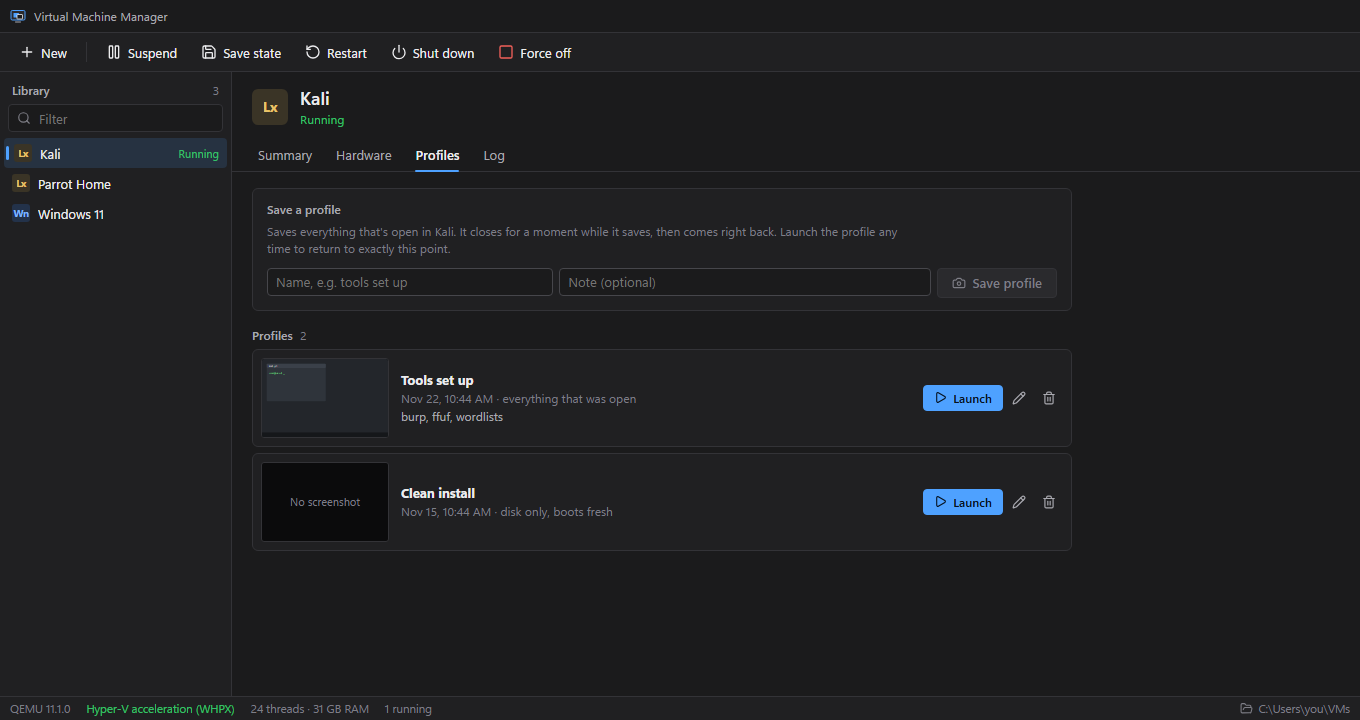
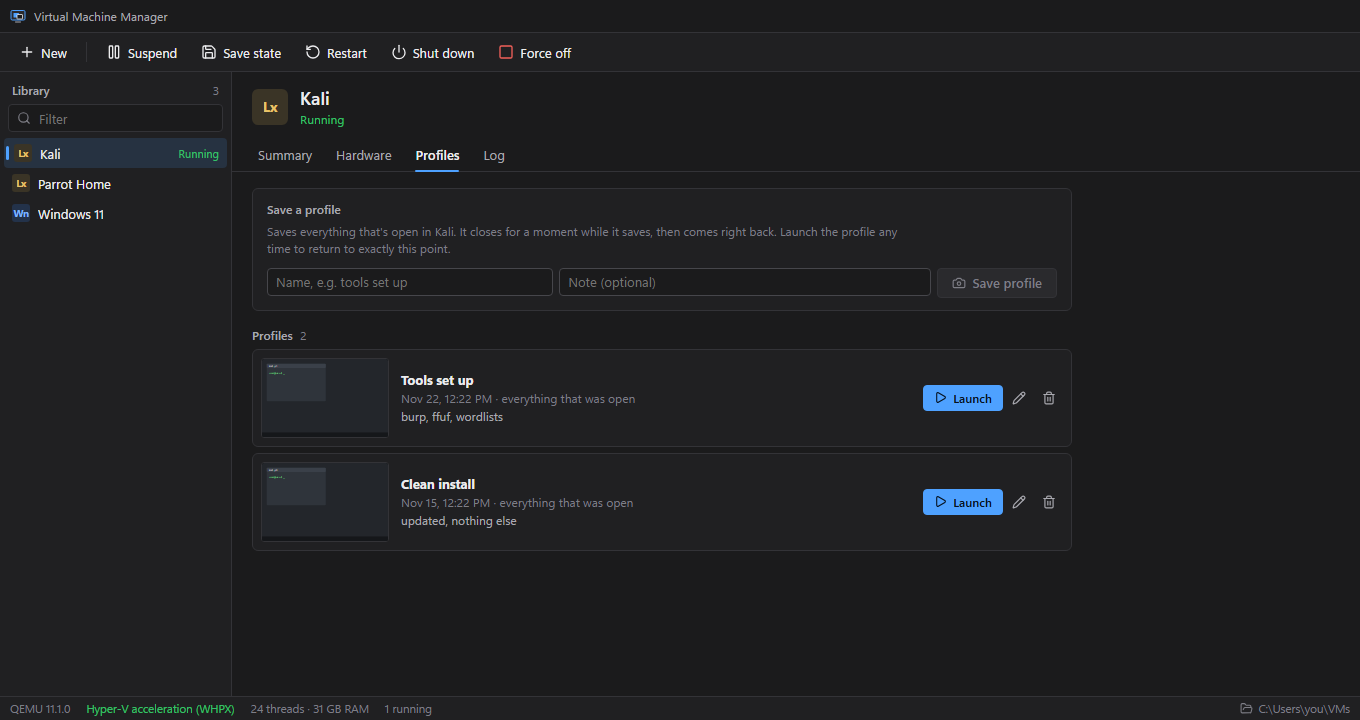
Support, security and conduct docs, demo GIF, roadmap (#44)
* Support, security and conduct docs; demo GIF; roadmap and help sections

Discussions and private vulnerability reporting are turned on for the
repo. The README said profiles can be taken while a VM is off; on main
takeNow() refuses that until #17, so it now says so.

* Mock: seed only profiles main can take; re-record demo and Profiles screenshot

The browser mock had a disk-only profile, which main can't make until #17,
so the README's first image contradicted its own text.

Changed region(s): [[0.1853, 0.6417, 0.4632, 0.7639], [0.3397, 0.55, 0.4632, 0.5806]]

diff --git a/src/renderer/src/mockApi.ts b/src/renderer/src/mockApi.ts
@@ -28,7 +28,7 @@ export function installMockApi(): void {
   const profiles: Record<string, Profile[]> = {
     Kali: [
       { tag: 'p1', label: 'Tools set up', note: 'burp, ffuf, wordlists', created: Date.now() - 2 * day, kind: 'session', hasShot: true },
-      { tag: 'p0', label: 'Clean install', note: '', created: Date.now() - 9 * day, kind: 'disk', hasShot: false }
+      { tag: 'p0', label: 'Clean install', note: 'updated, nothing else', created: Date.now() - 9 * day, kind: 'session', hasShot: true }
     ]
   }
   const running = (name: string) => (states[name]?.status ?? 'off') !== 'off'

diff --git a/CODE_OF_CONDUCT.md b/CODE_OF_CONDUCT.md
@@ -1,0 +1,85 @@
+
+# Contributor Covenant Code of Conduct
+
+## Our Pledge
+
+We as members, contributors, and leaders pledge to make participation in our community a harassment-free experience for everyone, regardless of age, body size, visible or invisible disability, ethnicity, sex characteristics, gender identity and expression, level of experience, education, socio-economic status, nationality, personal appearance, race, caste, color, religion, or sexual identity and orientation.
+
+We pledge to act and interact in ways that contribute to an open, welcoming, diverse, inclusive, and healthy community.
+
+## Our Standards
+
+Examples of behavior that contributes to a positive environment for our community include:
+
+* Demonstrating empathy and kindness toward other people
+* Being respectful of differing opinions, viewpoints, and experiences
+* Giving and gracefully accepting constructive feedback
+* Accepting responsibility and apologizing to those affected by our mistakes, and learning from the experience
+* Focusing on what is best not just for us as individuals, but for the overall community
+
+Examples of unacceptable behavior include:
+
+* The use of sexualized language or imagery, and sexual attention or advances of any kind
+* Trolling, insulting or derogatory comments, and personal or political attacks
+* Public or private harassment
+* Publishing others' private information, such as a physical or email address, without their explicit permission
+* Other conduct which could reasonably be considered inappropriate in a professional setting
+
+## Enforcement Responsibilities
+
+Community leaders are responsible for clarifying and enforcing our standards of acceptable behavior and will take appropriate and fair corrective action in response to any behavior that they deem inappropriate, threatening, offensive, or harmful.
+
+Community leaders have the right and responsibility to remove, edit, or reject comments, commits, code, wiki edits, issues, and other contributions that are not aligned to this Code of Conduct, and will communicate reasons for moderation decisions when appropriate.
+
+## Scope
+
+This Code of Conduct applies within all community spaces, and also applies when an individual is officially representing the community in public spaces. Examples of representing our community include using an official e-mail address, posting via an official social media account, or acting as an appointed representative at an online or offline event.
+
+## Enforcement
+
+Instances of abusive, harassing, or otherwise unacceptable behavior may be reported to the community leaders responsible for enforcement at a private report through this repository's Security tab ("Report a vulnerability"), which only the maintainer can see. All complaints will be reviewed and investigated promptly and fairly.
+
+All community leaders are obligated to respect the privacy and security of the reporter of any incident.
+
+## Enforcement Guidelines
+
+Community leaders will follow these Community Impact Guidelines in determining the consequences for any action they deem in violation of this Code of Conduct:
+
+### 1. Correction
+
+**Community Impact**: Use of inappropriate language or other behavior deemed unprofessional or unwelcome in the community.
+
+**Consequence**: A private, written warning from community leaders, providing clarity around the nature of the violation and an explanation of why the behavior was inappropriate. A public apology may be requested.
+
+### 2. Warning
+
+**Community Impact**: A violation through a single incident or series of actions.
+
+**Consequence**: A warning with consequences for continued behavior. No interaction with the people involved, including unsolicited interaction with those enforcing the Code of Conduct, for a specified period of time. This includes avoiding interactions in community spaces as well as external channels like social media. Violating these terms may lead to a temporary or permanent ban.
+
+### 3. Temporary Ban
+
+**Community Impact**: A serious violation of community standards, including sustained inappropriate behavior.
+
+**Consequence**: A temporary ban from any sort of interaction or public communication with the community for a specified period of time. No public or private interaction with the people involved, including unsolicited interaction with those enforcing the Code of Conduct, is allowed during this period. Violating these terms may lead to a permanent ban.
+
+### 4. Permanent Ban
+
+**Community Impact**: Demonstrating a pattern of violation of community standards, including sustained inappropriate behavior, harassment of an individual, or aggression toward or disparagement of classes of individuals.
+
+**Consequence**: A permanent ban from any sort of public interaction within the community.
+
+## Attribution
+
+This Code of Conduct is adapted from the [Contributor Covenant][homepage], version 2.1, available at [https://www.contributor-covenant.org/version/2/1/code_of_conduct.html][v2.1].
+
+Community Impact Guidelines were inspired by [Mozilla's code of conduct enforcement ladder][Mozilla CoC].
+
+For answers to common questions about this code of conduct, see the FAQ at [https://www.contributor-covenant.org/faq][FAQ]. Translations are available at [https://www.contributor-covenant.org/translations][translations].
+
+[homepage]: https://www.contributor-covenant.org
+[v2.1]: https://www.contributor-covenant.org/version/2/1/code_of_conduct.html
+[Mozilla CoC]: https://github.com/mozilla/diversity
+[FAQ]: https://www.contributor-covenant.org/faq
+[translations]: https://www.contributor-covenant.org/translations
+

diff --git a/README.md b/README.md
@@ -9,9 +9,9 @@ A free desktop app for running virtual machines on Windows. It uses [QEMU](https
 [![Windows 10/11](https://img.shields.io/badge/platform-Windows%2010%20%7C%2011-0078D4)](#requirements)
 [![Stars](https://img.shields.io/github/stars/A21-devs/Virtual-Machine-Manager?style=flat)](https://github.com/A21-devs/Virtual-Machine-Manager/stargazers)
 
-![A running Kali VM in Virtual Machine Manager](docs/screenshots/summary.png)
+![Powering on a Kali VM, checking its hardware, saving a profile and launching an older one](docs/screenshots/demo.gif)
 
-**[Download the installer](https://github.com/A21-devs/Virtual-Machine-Manager/releases/latest)** · [Wiki](https://github.com/A21-devs/Virtual-Machine-Manager/wiki) · [Report a bug](https://github.com/A21-devs/Virtual-Machine-Manager/issues/new)
+**[Download the installer](https://github.com/A21-devs/Virtual-Machine-Manager/releases/latest)** · [Wiki](https://github.com/A21-devs/Virtual-Machine-Manager/wiki) · [Roadmap](https://github.com/A21-devs/Virtual-Machine-Manager/wiki/Roadmap) · [Discussions](https://github.com/A21-devs/Virtual-Machine-Manager/discussions)
 
 ## Why
 
@@ -28,7 +28,7 @@ I wanted something that feels like VMware Workstation but is free and fully mine
 **Save your place**
 - **Save state:** close a VM and pick up where you left off next time you power it on
 - **Profiles:** save named points in time for a VM ("tools set up", "clean install") with a screenshot and a note, then **Launch** any of them later to go straight back to that moment
-- Profiles taken while a Linux VM is running keep everything that was open. Profiles taken while it's off keep the disk and boot fresh, for any guest.
+- A profile keeps everything that was open in the guest. It's taken while the VM runs, and works for Debian/Ubuntu-based Linux guests today
 
 **Set them up**
 - Hardware tab: name, guest OS, CPU cores and RAM (sliders that know your PC's limits), disk size and controller, CD/DVD image and whether it boots first, network mode and adapter, graphics, BIOS or UEFI, acceleration and extra QEMU arguments
@@ -38,6 +38,8 @@ I wanted something that feels like VMware Workstation but is free and fully mine
 
 | | |
 |---|---|
+| ![Summary tab of a running VM](docs/screenshots/summary.png) | ![Log tab](docs/screenshots/log.png) |
+| **Summary:** what the VM is running with, at a glance. | **Log:** QEMU's own output, for when a guest won't boot. |
 | ![Hardware tab](docs/screenshots/hardware.png) | ![Profiles tab with two saved profiles](docs/screenshots/profiles.png) |
 | **Hardware:** every setting in one place, with hints for the ones that are easy to get wrong. | **Profiles:** save a moment, launch it again later. |
 
@@ -86,7 +88,7 @@ Uninstalling the app never touches this folder.
 
 **Why does saving a profile close the VM for a moment?** With WHPX, QEMU can't snapshot a running guest's memory, so the guest hibernates itself, the disk is snapshotted, and the VM starts again. Launching the profile resumes from that hibernation.
 
-**Which guests can keep open apps in a profile?** Linux guests based on Debian or Ubuntu (Kali, Ubuntu, Mint, Parrot) after a one-time setup command that the app shows you the first time. Windows guests aren't supported for this yet. Profiles of a powered-off VM work with any guest.
+**Which guests can keep open apps in a profile?** Linux guests based on Debian or Ubuntu (Kali, Ubuntu, Mint, Parrot) after a one-time setup command that the app shows you the first time. Windows guests aren't supported yet ([#42](https://github.com/A21-devs/Virtual-Machine-Manager/issues/42)), and neither are profiles of a powered-off VM ([#17](https://github.com/A21-devs/Virtual-Machine-Manager/issues/17)).
 
 **Can I use my existing VMs?** Any qcow2 disk works: put it in `VMs\disks` and point a new VM at it. VMs from the old PowerShell version show up on their own.
 
@@ -122,9 +124,22 @@ tests/        Vitest unit tests, plus integration tests that boot QEMU
 legacy/       the original PowerShell version
 ```
 
+## Roadmap
+
+What's shipped, what's next and what's only an idea is on the [Roadmap](https://github.com/A21-devs/Virtual-Machine-Manager/wiki/Roadmap) wiki page. Next up is mostly in the [open issues](https://github.com/A21-devs/Virtual-Machine-Manager/issues). Ideas go in [Discussions](https://github.com/A21-devs/Virtual-Machine-Manager/discussions/categories/ideas).
+
+## Getting help
+
+- How-to guides: the [wiki](https://github.com/A21-devs/Virtual-Machine-Manager/wiki)
+- Questions: [Discussions](https://github.com/A21-devs/Virtual-Machine-Manager/discussions)
+- Bugs: [open an issue](https://github.com/A21-devs/Virtual-Machine-Manager/issues/new/choose) with the VM's Log tab
+- Security problems: privately, see [SECURITY.md](SECURITY.md)
+
+It's one maintainer, so expect a reply within a few days. More in [SUPPORT.md](SUPPORT.md).
+
 ## Contributing
 
-Bug reports and PRs are welcome. Issues labelled [good first issue](https://github.com/A21-devs/Virtual-Machine-Manager/labels/good%20first%20issue) are small and self-contained. See [CONTRIBUTING.md](CONTRIBUTING.md) for how to set up and what a PR needs.
+Bug reports and PRs are welcome. Issues labelled [good first issue](https://github.com/A21-devs/Virtual-Machine-Manager/labels/good%20first%20issue) are small and self-contained. See [CONTRIBUTING.md](CONTRIBUTING.md) for how to set up and what a PR needs. Everyone taking part follows the [code of conduct](CODE_OF_CONDUCT.md).
 
 ## Credits
 

diff --git a/SUPPORT.md b/SUPPORT.md
@@ -1,0 +1,15 @@
+# Getting help
+
+| You want to... | Go to |
+|---|---|
+| Learn how to do something | The [wiki](https://github.com/A21-devs/Virtual-Machine-Manager/wiki): installing, your first VM, hardware settings, profiles, troubleshooting |
+| Ask a question or share an idea | [Discussions](https://github.com/A21-devs/Virtual-Machine-Manager/discussions) |
+| Report a bug | [New issue](https://github.com/A21-devs/Virtual-Machine-Manager/issues/new/choose) using the bug form. Paste the VM's Log tab, it usually has the answer |
+| Report a security problem | Privately, see [SECURITY.md](SECURITY.md). Not in a public issue |
+| See what's planned | The [roadmap](https://github.com/A21-devs/Virtual-Machine-Manager/wiki/Roadmap) |
+
+## What to expect
+
+This is maintained by one person in their spare time. I read every issue and discussion, usually within a few days. If I need more detail I'll ask in the thread. When something is fixed, the issue gets closed with the PR that fixed it and the release it ships in. If a request doesn't fit the project I'll say why instead of leaving it open.
+
+Answers that will help other people end up in the wiki or the FAQ, so they don't get lost in a thread.

diff --git a/SECURITY.md b/SECURITY.md
@@ -1,0 +1,20 @@
+# Security
+
+## Reporting a problem
+
+Please don't open a public issue for security problems. Use **Security > Report a vulnerability** on this repository instead. Only the maintainer can see those reports.
+
+Include what you found, how to reproduce it, and what someone could do with it. You'll get a reply within a week, and a fix or a plan after that. You're credited in the release notes unless you'd rather not be.
+
+## Supported versions
+
+Only the [latest release](https://github.com/A21-devs/Virtual-Machine-Manager/releases/latest) gets fixes.
+
+## What's in scope
+
+- The app itself: the Electron main process, the preload bridge, IPC handlers
+- The guest setup server the app runs on `127.0.0.1` while a guest needs the one-time setup
+- How the app starts QEMU (arguments built from VM configs)
+- The installer and the release workflow
+
+Bugs in QEMU itself should go to the [QEMU project](https://www.qemu.org/contribute/security-process/).
